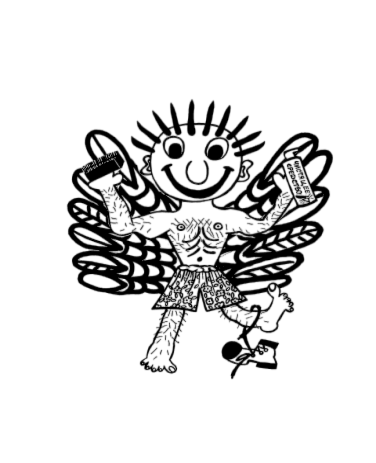
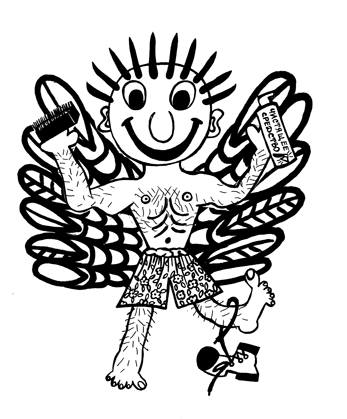
replace png pictures add new pictures

diff --git a/src/pages/MainPage.tsx b/src/pages/MainPage.tsx
@@ -10,6 +10,7 @@ import {
   MainPageManifestWrapper,
   ManifestLyricsBLock,
   ManifestPictureContainer,
+  SliderHeading,
   SliderPicture,
 } from '../components/CommonStyles';
 import 'react-responsive-carousel/lib/styles/carousel.min.css';
@@ -23,7 +24,7 @@ const MainPage = () => {
   const SliderPictures: TSliderPicture[] = [
     { id: 1, url: 'Konj', name: 'Тыбыдындский Конь' },
     { id: 2, url: 'Losj', name: 'Лось' },
-    { id: 3, url: 'Mudak', name: 'Летающий Мудак' },
+    { id: 3, url: 'MudakChB', name: 'Летающий Мудак' },
     { id: 4, url: 'Herli', name: 'Царевна Херли' },
     { id: 5, url: 'Shibzdik', name: 'Шибздик' },
     { id: 6, url: 'Tvarets', name: 'Тварец' },
@@ -39,6 +40,14 @@ const MainPage = () => {
     { id: 16, url: 'Zora', name: 'Жора' },
     { id: 17, url: 'Hryakulenko', name: 'Хрякуленко Дима' },
     { id: 18, url: 'Ja', name: '"Я"' },
+    { id: 19, url: 'Tormoznyh', name: 'Тормозных' },
+    { id: 20, url: 'Martynmilo', name: 'Мартынмыло' },
+    { id: 21, url: 'Merendinka', name: 'Мерендинка' },
+    { id: 22, url: 'Pardon', name: 'ПАрдон, бывший царь' },
+    { id: 23, url: 'Rvachova', name: 'Рвачёва' },
+    { id: 24, url: 'Vojenruk', name: 'Военрук' },
+    { id: 25, url: 'Ked', name: 'Кед' },
+    { id: 26, url: 'GalPetra', name: 'Гал Петра' },
   ];
   return (
     <PageWrapper>
@@ -98,7 +107,7 @@ const MainPage = () => {
         </MainPageManifestWrapper>
 
         <CarouselContainer>
-          <h2>Галерея наших героев</h2>
+          <SliderHeading>Наши персонажи</SliderHeading>
           <Carousel
             showArrows={true}
             showStatus={false}

diff --git a/src/pages/GalleryPage.tsx b/src/pages/GalleryPage.tsx
@@ -1,0 +1,22 @@
+import React from 'react';
+import { ContentWrapper, PageWrapper } from './PagesStyles';
+import Header from '../components/Header';
+import Footer from '../components/Footer';
+import { FAIcon } from '../components/AnimatedComponents';
+import { faCog } from '@fortawesome/free-solid-svg-icons';
+
+const GalleryPage = () => {
+  return (
+    <PageWrapper>
+      <Header />
+      <ContentWrapper>
+        <div>
+          Gallery Page Work in progress... <FAIcon icon={faCog} color="#a8324a" $animated />
+        </div>
+      </ContentWrapper>
+      <Footer />
+    </PageWrapper>
+  );
+};
+
+export default GalleryPage;

diff --git a/src/components/CommonStyles.tsx b/src/components/CommonStyles.tsx
@@ -76,14 +76,21 @@ export const MainPageManifestWrapper = styled.div`
 `;
 export const SliderPicture = styled.img`
   max-width: 20em;
-  padding-bottom: 50px;
+  padding-bottom: 30px;
 `;
 export const CarouselContainer = styled.div`
-  margin: 2em auto;
+  margin: 1.5em auto;
   max-width: 70%;
   display: flex;
   flex-direction: column;
   align-items: center;
+  @media screen and (max-width: 700px) {
+    max-width: 100%;
+  }
+`;
+
+export const SliderHeading = styled.h2`
+  margin: 1em;
 `;
 export const FooterDate = styled.div`
   padding: 0 15px;

diff --git a/src/router.tsx b/src/router.tsx
@@ -9,6 +9,7 @@ import BalladesPage from './pages/BalladesPage';
 import PoetryPage from './pages/PoetryPage';
 import LogInPage from './pages/LoginPage';
 import RegistrationPage from './pages/RegistrationPage';
+import GalleryPage from './pages/GalleryPage';
 
 export const router = createBrowserRouter([
   {
@@ -47,5 +48,9 @@ export const router = createBrowserRouter([
   {
     path: '/registration',
     element: <RegistrationPage />,
+  },
+  {
+    path: '/gallery',
+    element: <GalleryPage />,
   },
 ]);

diff --git a/src/components/Header.tsx b/src/components/Header.tsx
@@ -17,7 +17,8 @@ export const headerButtons: Button[] = [
   { id: 4, link: '/poetry', label: 'Стихи' },
   { id: 5, link: '/chat', label: 'Чат' },
   { id: 6, link: '/about-us', label: 'Про нас' },
-  { id: 7, link: '/log-in', label: 'Войти' },
+  { id: 7, link: '/gallery', label: 'Галерея' },
+  { id: 8, link: '/log-in', label: 'Войти' },
 ];
 const Header = () => {
   const [isBurgerOpen, setBurgerOpen] = useState(false);
